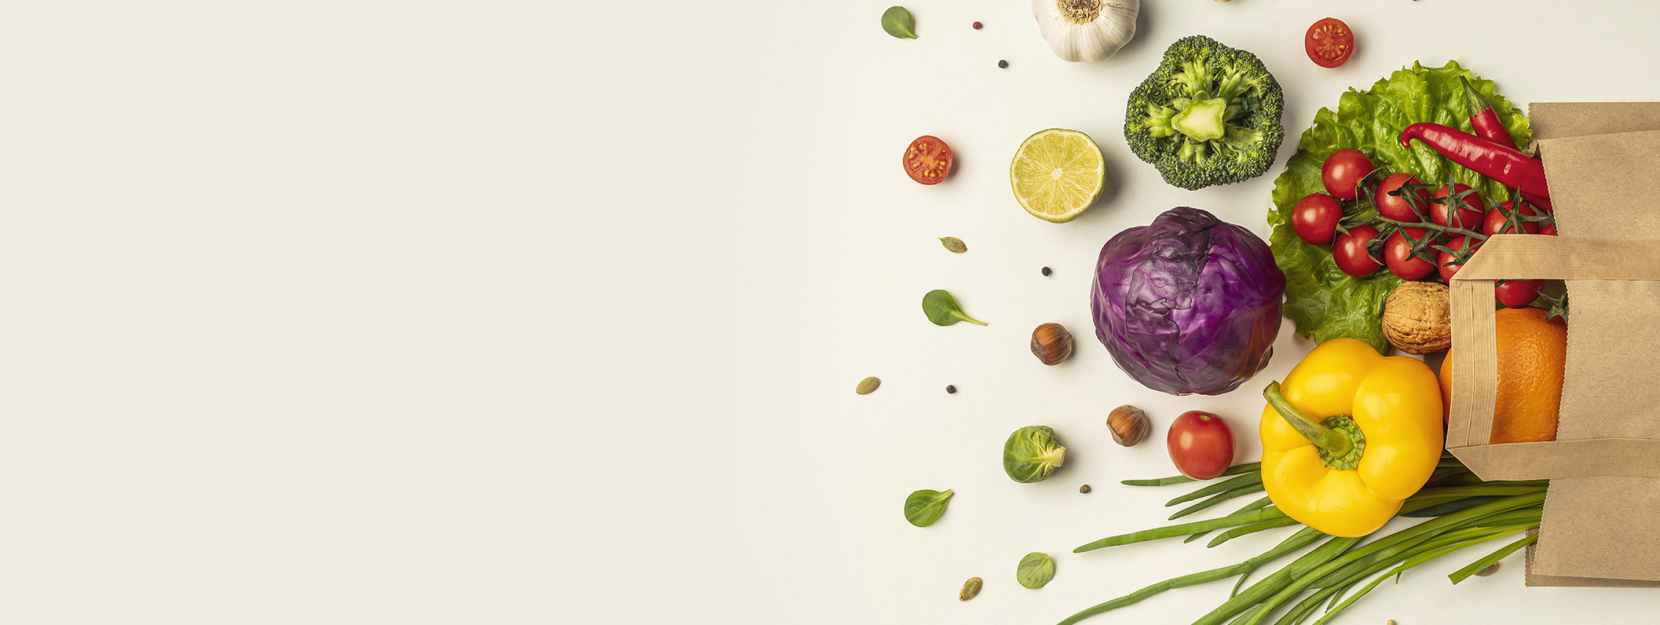
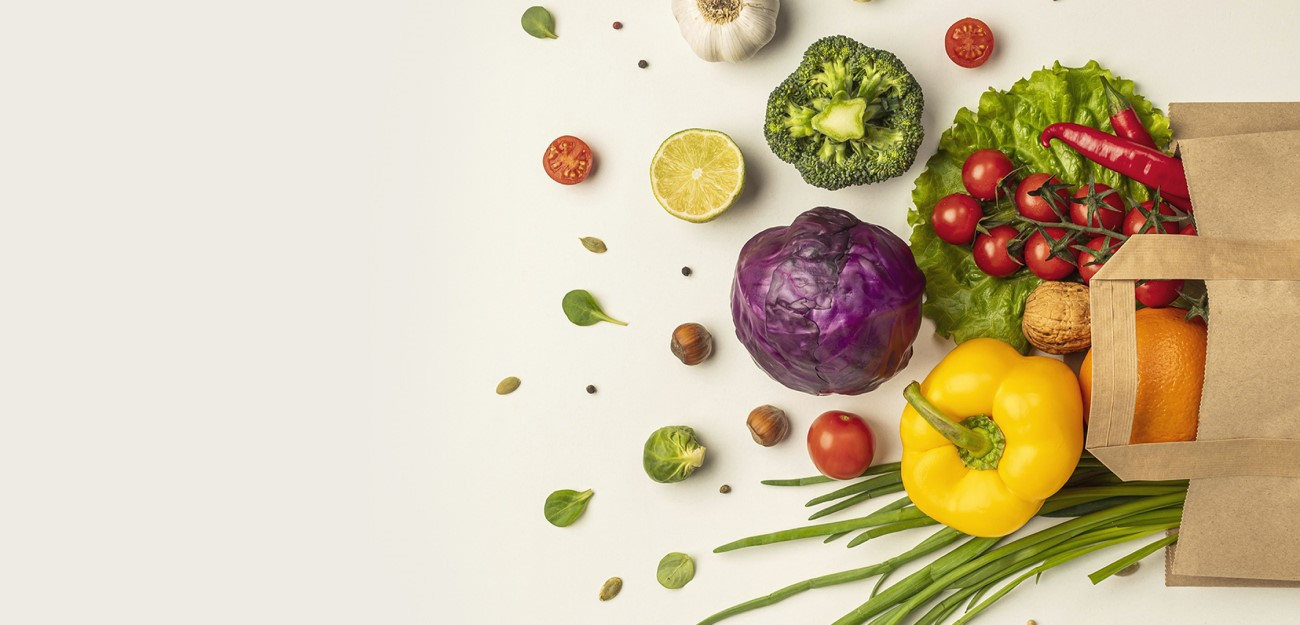
edit 9

diff --git a/src/Components/MainSlider/MainSlider.jsx b/src/Components/MainSlider/MainSlider.jsx
@@ -2,7 +2,7 @@ import React from 'react';
 import Slider from "react-slick";
 import mainslider1 from '../../assets/images/images/slider-image-3.jpeg';
 import mainslider2 from '../../assets/images/images/slider-2.jpeg';
-import mainslider3 from '../../assets/images/images/grocery-banner-2.jpeg';
+import mainslider3 from '../../assets/images/images/blog-img-2.jpeg';
 import slide1 from '../../assets/images/images/slider-image-1.jpeg';
 import slide2 from '../../assets/images/images/slider-image-2.jpeg';
 
@@ -25,7 +25,6 @@ export default function MainSlider() {
   return (
     <div className="frame">
       <div className="flex flex-row md:flex-row overflow-hidden">
-        {/* Slider section */}
         <div className="w-2/3 md:w-3/4 mb-8">
           <Slider {...settings}>
             <img 
